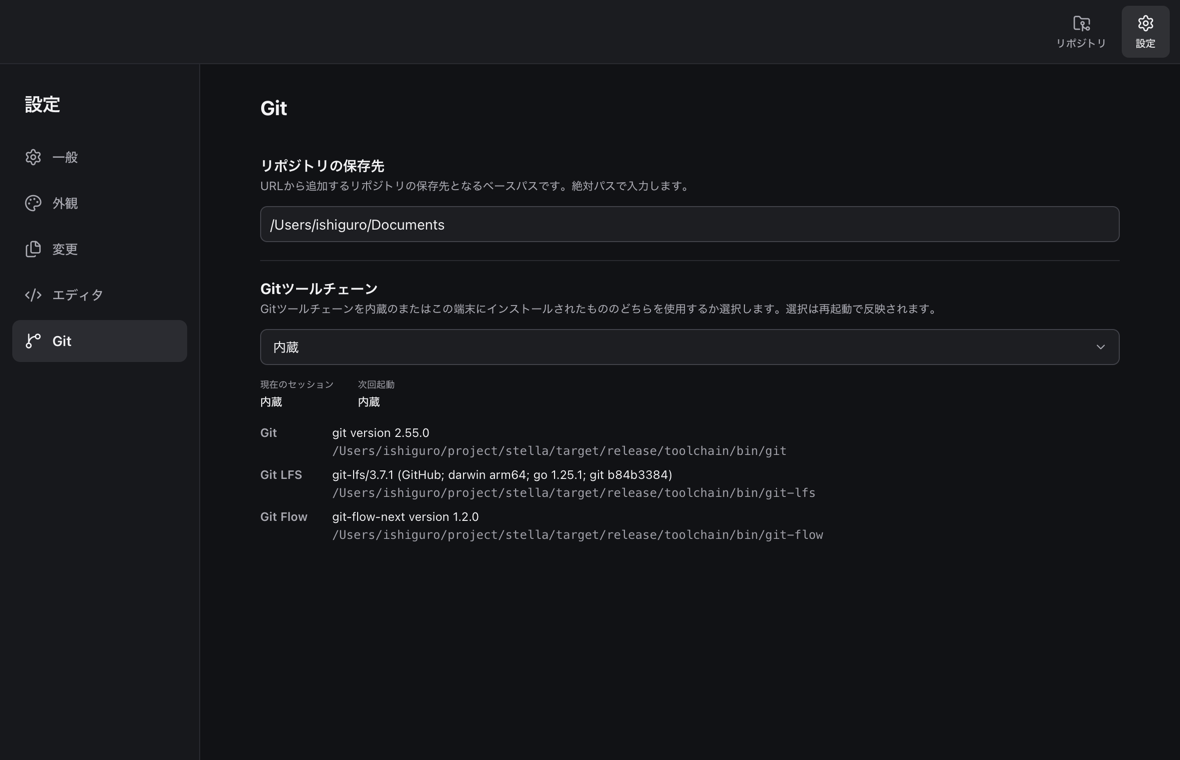
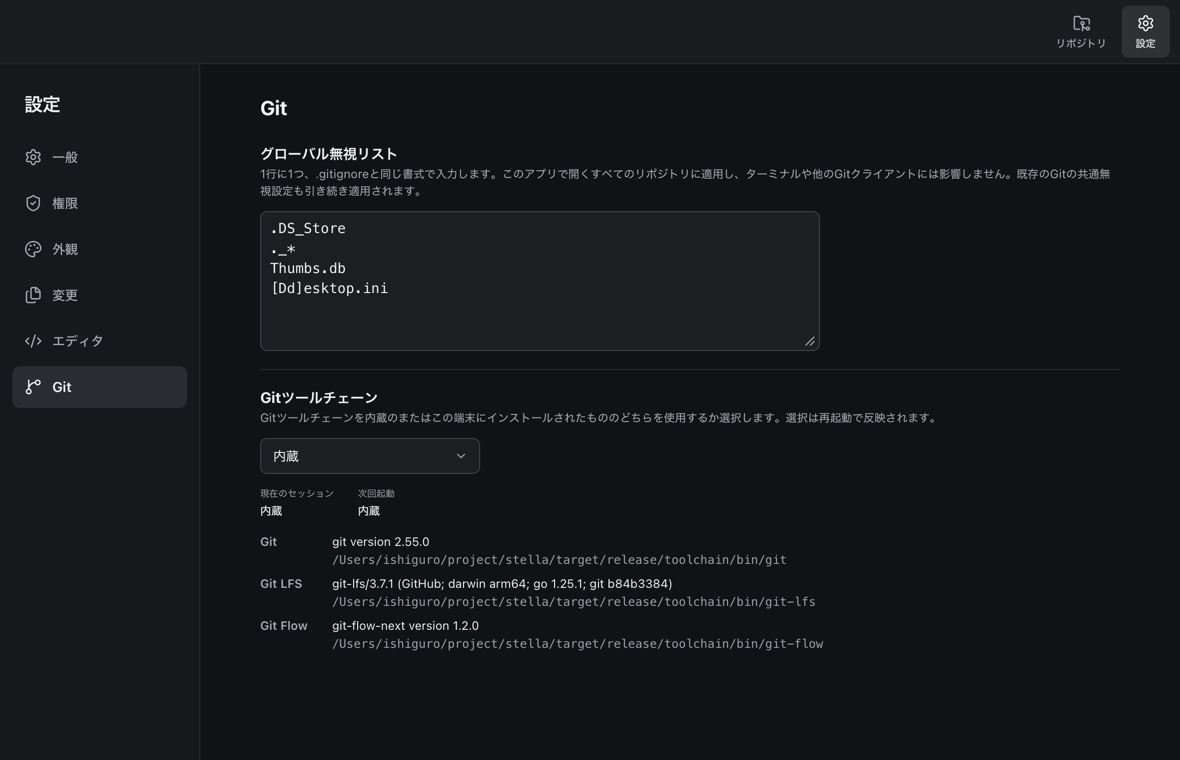
style(settings): 大見出し下の余白を調整

diff --git a/src/styles.css b/src/styles.css
@@ -479,7 +479,7 @@ kbd {
 }
 
 .settings-category-heading {
-  margin: 0 0 18px;
+  margin: 0 0 6px;
   font-size: 1.25rem;
 }
 
